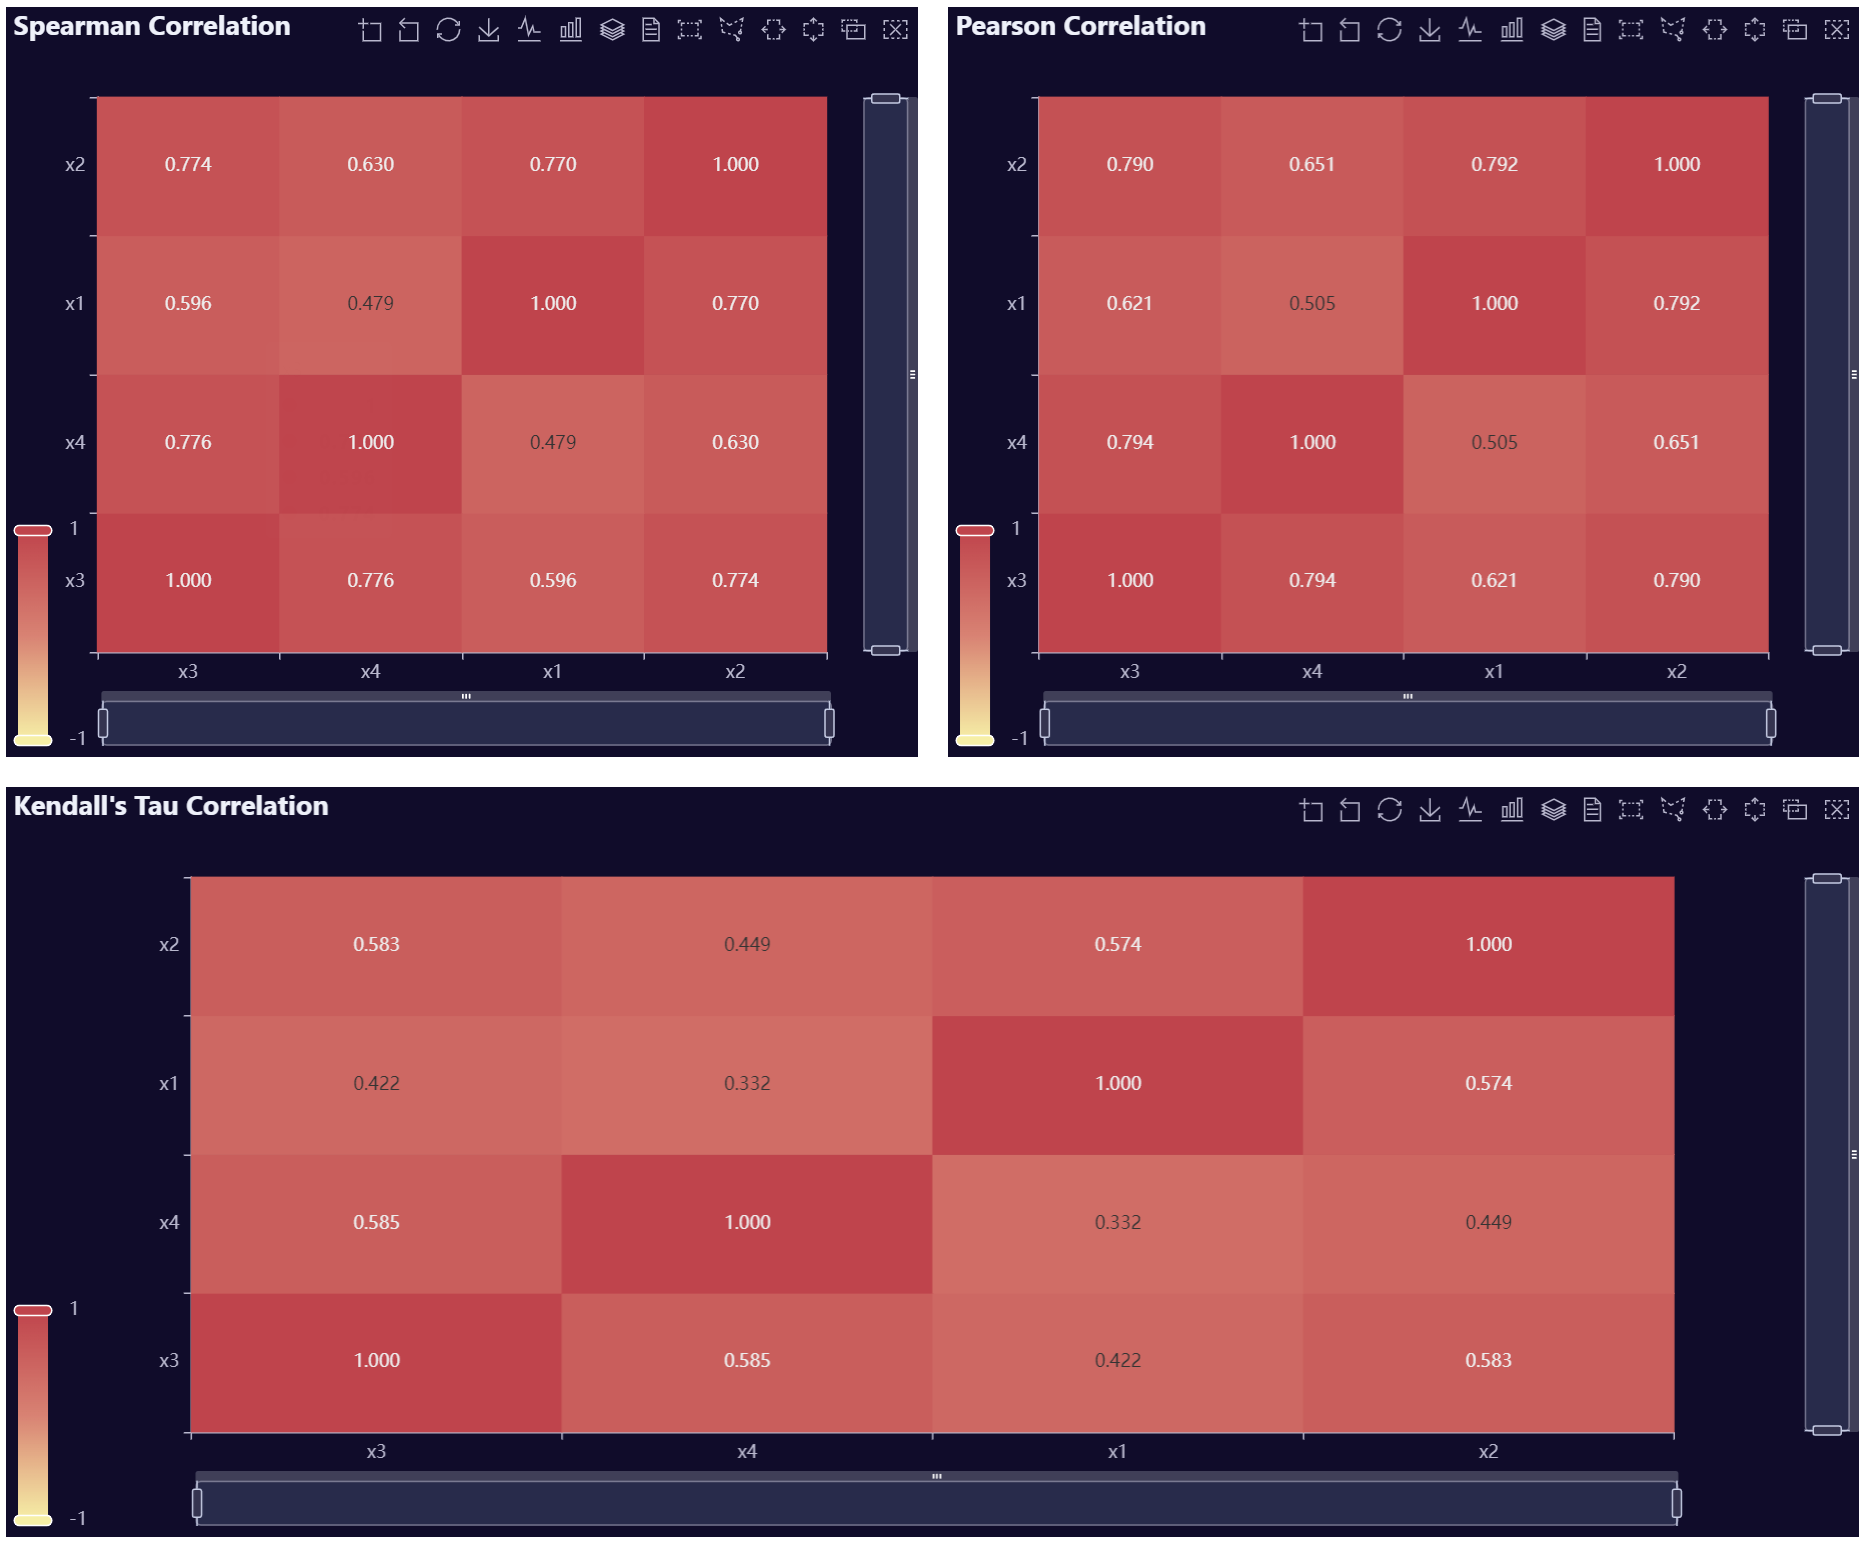
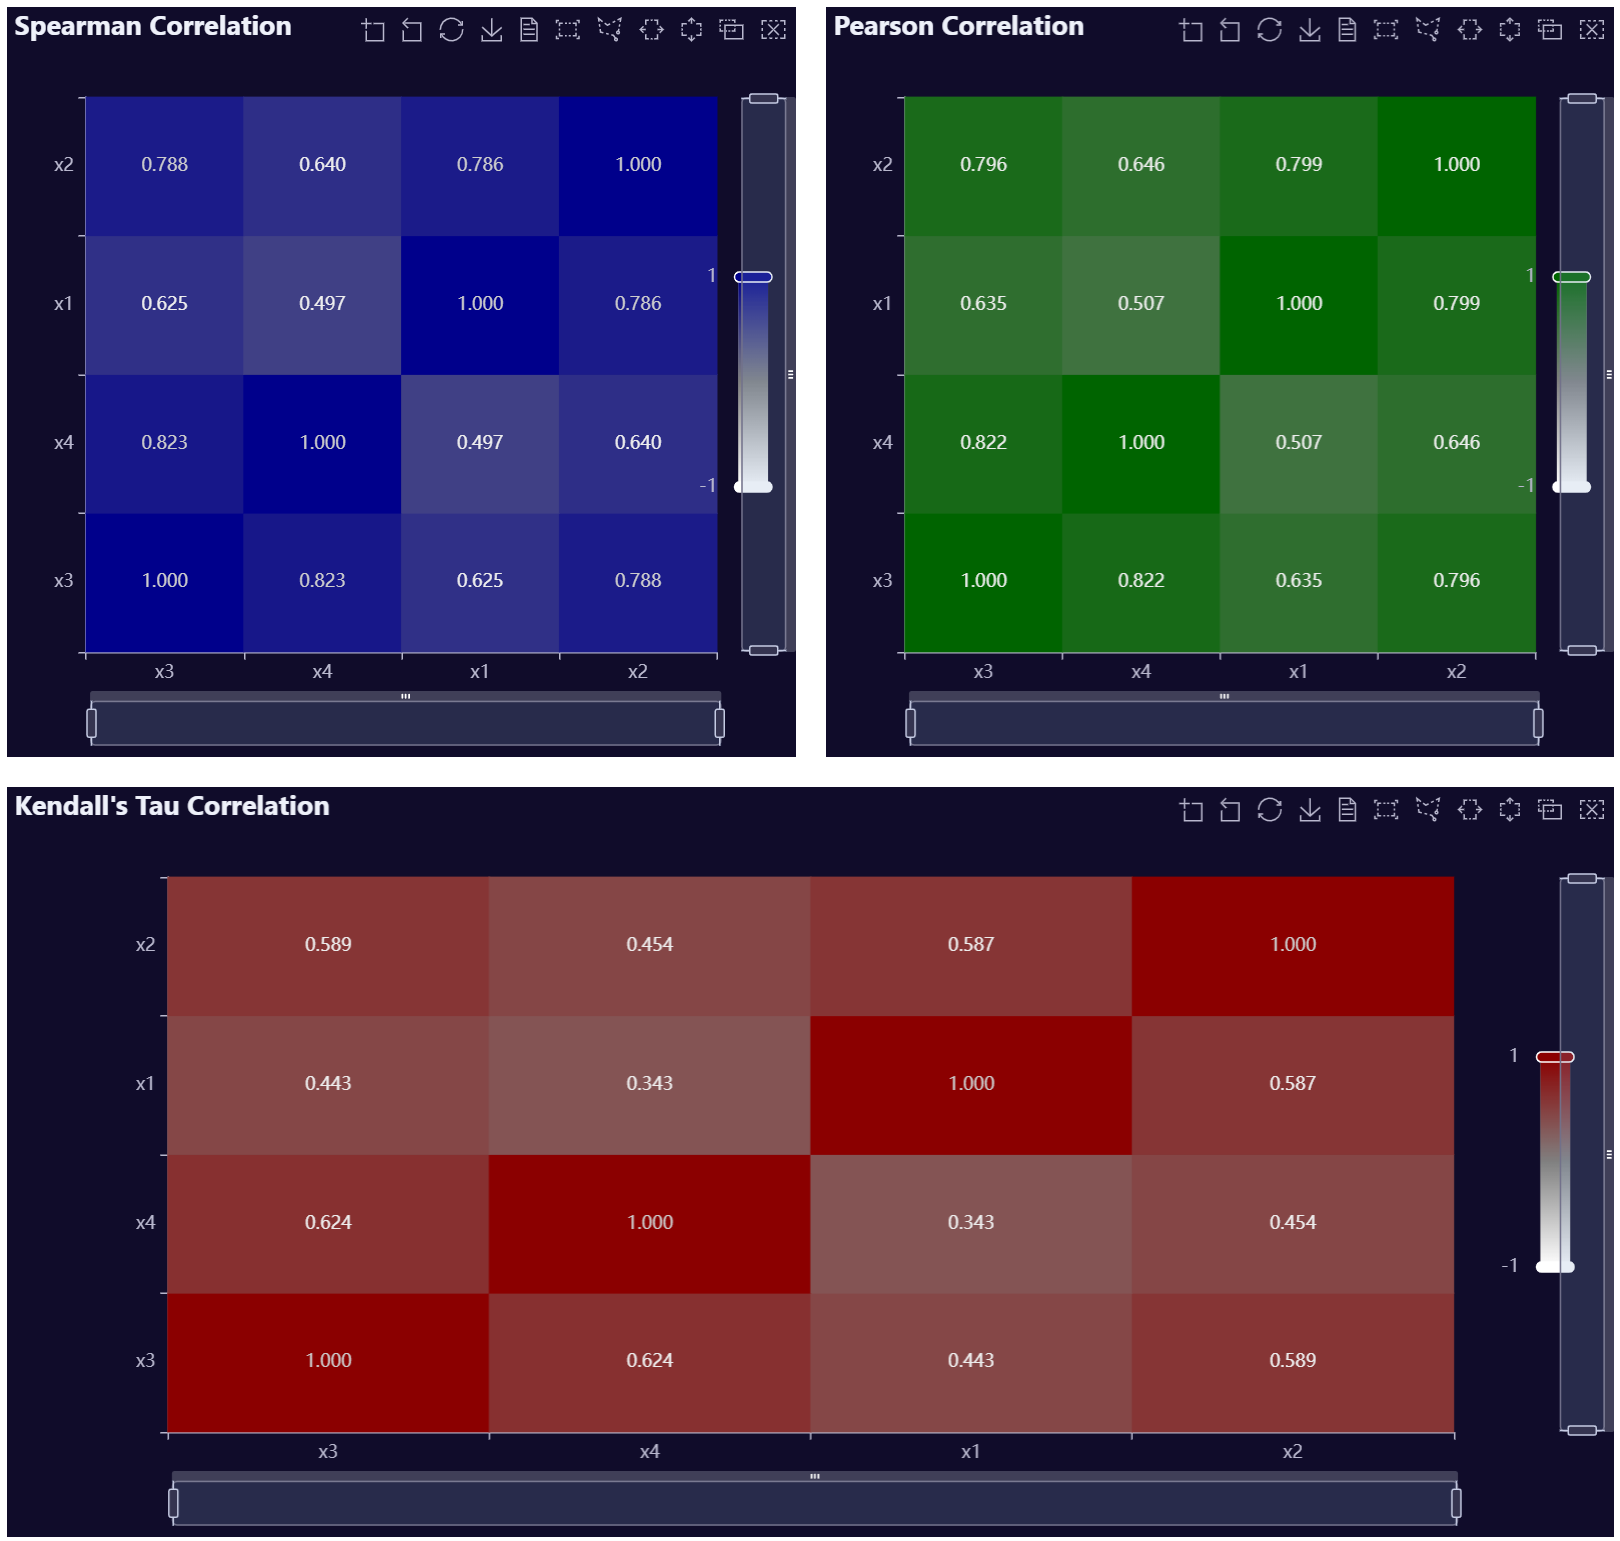
Update README

diff --git a/README.md b/README.md
@@ -410,8 +410,8 @@ AutoPlots::CorrMatrix(
   PreAgg = FALSE,
   Method = "Spearman",
   CorrVars = c("x1","x2","x3","x4"),
-  ShowLabels = T,
-  title.text = "Spearman Correlation"
+  ShowLabels = TRUE,
+  visualMap.InRange.color = c("white", "gray", "darkblue")
 )
 ```
 
@@ -443,7 +443,8 @@ p1 <- AutoPlots::CorrMatrix(
   PreAgg = FALSE,
   Method = "Spearman",
   CorrVars = c("x1","x2","x3","x4"),
-  ShowLabels = T,
+  ShowLabels = TRUE,
+  visualMap.InRange.color = c("white", "gray", "darkblue"),
   title.text = "Spearman Correlation"
 )
 
@@ -452,7 +453,8 @@ p2 <- AutoPlots::CorrMatrix(
   PreAgg = FALSE,
   Method = "Pearson",
   CorrVars = c("x1","x2","x3","x4"),
-  ShowLabels = T,
+  ShowLabels = TRUE,
+  visualMap.InRange.color = c("white", "gray", "darkgreen"),
   title.text = "Pearson Correlation"
 )
 
@@ -461,7 +463,8 @@ p3 <- AutoPlots::CorrMatrix(
   PreAgg = FALSE,
   Method = "Kendall",
   CorrVars = c("x1","x2","x3","x4"),
-  ShowLabels = T,
+  ShowLabels = TRUE,
+  visualMap.InRange.color = c("white", "gray", "darkred"),
   title.text = "Kendall's Tau Correlation"
 )
 
